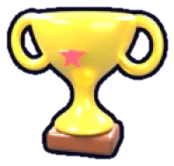
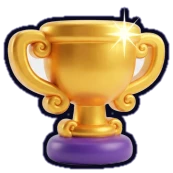
AMAGO: iconos nuevos (moneda, gema, Poder, trofeo, corona) y Mira en 2D

diff --git a/amago/index.html b/amago/index.html
@@ -2211,7 +2211,7 @@ function glbHero(id){
   return root;
 }
 /* ---- héroes 2D: la ilustración como una figura de cartón que siempre mira a la cámara ---- */
-const SPRITE_LIST=["flecha","brasa","sombra","ojo","truco","muro","rayo","bum","mina","salto","savia","eco"],SPRITES={},SPRITE_H={flecha:1,brasa:1.05,sombra:1,ojo:1,truco:1.02,muro:1.22,rayo:1.1,bum:.95,mina:1.02,salto:.95,savia:1.05,eco:1.05};
+const SPRITE_LIST=["flecha","brasa","sombra","ojo","truco","muro","rayo","bum","mina","salto","savia","eco","mira"],SPRITES={},SPRITE_H={flecha:1,brasa:1.05,sombra:1,ojo:1,truco:1.02,muro:1.22,rayo:1.1,bum:.95,mina:1.02,salto:.95,savia:1.05,eco:1.05,mira:1.05};
 const SKIN_LIST=["brasa_glacial","muro_magma","sombra_carmesi","truco_artico","ojo_nevado"];
 function loadSprites(){
   const L=new T.TextureLoader();
@@ -2240,6 +2240,7 @@ const RIG2D={
   mina:{h:[.48,.68],n:[.47,.42],c:[.47,.25],sL:[.22,.48],hL:[.2,.8],sR:[.7,.46],hR:[.85,.5],pL:[.38,.76],fL:[.33,.96],pR:[.6,.76],fR:[.62,.96],atk:"throw",m:"R"},
   salto:{h:[.5,.68],n:[.5,.45],c:[.5,.25],sL:[.32,.5],hL:[.2,.9],sR:[.68,.48],hR:[.88,.6],pL:[.4,.74],fL:[.45,.95],pR:[.62,.74],fR:[.74,.92],x:[["cinta","head",[.22,.18],[.02,.32]]],atk:"throw",m:"R"},
   savia:{h:[.42,.65],n:[.4,.45],c:[.38,.28],sL:[.33,.5],hL:[.2,.6],sR:[.5,.5],hR:[.64,.62],pL:[.4,.75],fL:[.42,.96],pR:[.47,.75],fR:[.5,.92],x:[["alaL","spine",[.32,.45],[.12,.3]],["alaR","spine",[.52,.42],[.8,.25]]],atk:"shoot",m:"L"},
+  mira:{h:[.38,.66],n:[.35,.42],c:[.33,.27],sL:[.25,.48],hL:[.4,.52],sR:[.5,.48],hR:[.6,.5],pL:[.3,.74],fL:[.22,.95],pR:[.45,.74],fR:[.48,.95],x:[["capa","spine",[.2,.5],[.06,.78]]],atk:"shoot",m:"R"},
   eco:{h:[.5,.65],n:[.5,.48],c:[.5,.32],sL:[.38,.5],hL:[.1,.62],sR:[.62,.5],hR:[.9,.62],pL:[.45,.76],fL:[.4,.95],pR:[.55,.76],fR:[.6,.92],atk:"breath",m:"R"},
   brasa_glacial:{h:[.58,.68],n:[.58,.42],c:[.6,.25],sL:[.42,.48],hL:[.38,.6],sR:[.75,.48],hR:[.82,.62],pL:[.5,.78],fL:[.45,.96],pR:[.72,.78],fR:[.8,.96],x:[["cola","root",[.35,.72],[.08,.5]]],atk:"breath",m:"R"},
   muro_magma:{h:[.5,.65],n:[.5,.42],c:[.5,.3],sL:[.25,.3],hL:[.14,.72],sR:[.75,.3],hR:[.85,.72],pL:[.4,.78],fL:[.38,.96],pR:[.6,.78],fR:[.62,.96],atk:"slam",m:"R"},
